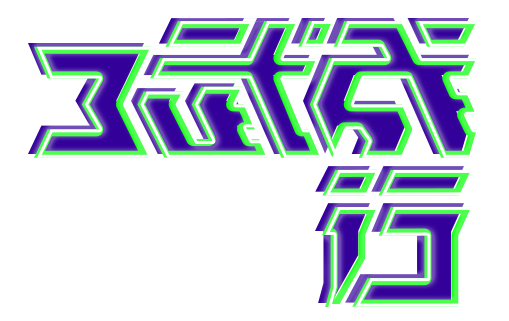
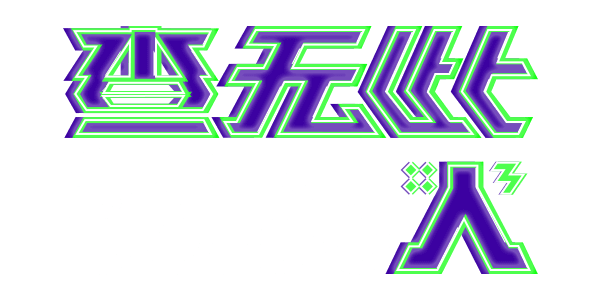
[U]版本更新

diff --git a/src/pages/index/index.jsx b/src/pages/index/index.jsx
@@ -3,9 +3,28 @@ import React, { Component } from 'react'
 import Taro from '@tarojs/taro'
 import { View, Image } from '@tarojs/components'
 import Author from '../../components/author'
+
 import './index.scss'
+
 import imgTitle from '../../assets/image/index/title.png'
 import imgTitleLight from '../../assets/image/index/title-light.png'
+import displayChi from '../../assets/image/display/display-chi.jpg'
+import displayMiao from '../../assets/image/display/display-miao-v2.jpg'
+import displayKai from '../../assets/image/display/display-kai.jpg'
+import imgTubu from '../../assets/image/display/tubu.jpg'
+import imgTubuOrigin from '../../assets/image/display/tubu-origin.jpg'
+import imgShangyuanankang from '../../assets/image/display/shangyuanankang.jpg'
+import imgShangyuanankangOrigin from '../../assets/image/display/shangyuanankang-origin.jpg'
+import imgJichedang from '../../assets/image/display/jichedang.jpg'
+import imgJichedangOrigin from '../../assets/image/display/jichedang-origin.jpg'
+import imgKaizhan from '../../assets/image/display/kaizhan.jpg'
+import imgKaizhanOrigin from '../../assets/image/display/kaizhan-origin.jpg'
+import imgXiaweiyi from '../../assets/image/display/xiaweiyi.jpg'
+import imgXiaweiyiOrigin from '../../assets/image/display/xiaweiyi-origin.jpg'
+import imgMaerdaifu from '../../assets/image/display/maerdaifu.jpg'
+import imgMaerdaifuOrigin from '../../assets/image/display/maerdaifu-origin.jpg'
+import imgChengshenvtuan from '../../assets/image/display/chengshenvtuan.jpg'
+import imgChengshenvtuanOrigin from '../../assets/image/display/chengshenvtuan-origin.jpg'
 
 export default class Index extends Component {
   constructor(props) {
@@ -22,6 +41,15 @@ export default class Index extends Component {
       { short: 'chi', name: '嘘！景观', desc: '私家庭院 · 公共景观' },
       { short: 'miao', name: '嘘！平面', desc: '商业插画 · 宣传物料' },
       { short: 'kai', name: '嘘！室内', desc: '商铺展位 · 家装设计' }
+    ]
+    this._displayMiao = [
+      { id: 1, url: imgTubuOrigin, name: 'tubu' },
+      { id: 2, url: imgShangyuanankangOrigin, name: 'shangyuanankang' },
+      { id: 3, url: imgJichedangOrigin, name: 'jichedang' },
+      { id: 4, url: imgKaizhanOrigin, name: 'kaizhan' },
+      { id: 5, url: imgXiaweiyiOrigin, name: 'xiaweiyi' },
+      { id: 6, url: imgMaerdaifuOrigin, name: 'maerdaifu' },
+      { id: 7, url: imgChengshenvtuanOrigin, name: 'chengshenvtuan' }
     ]
     this._deviceInfo = Taro.getSystemInfoSync()
     console.log(this._deviceInfo)
@@ -81,7 +109,6 @@ export default class Index extends Component {
   }
 
   changePage(newPage) {
-    console.log('newPage ', newPage)
     const { page } = this.state
     if (page === newPage) return
     if (newPage !== 1) clearTimeout(this._lightTimeout)
@@ -96,21 +123,64 @@ export default class Index extends Component {
   }
 
   showDisplay(item) {
-    console.log(item)
     this._item = item
     this.setState({ page: 4 })
   }
 
-  onDisplayTouchStart(e) {
-    const { page } = this.state
-    if (page !== 4) return false
-    console.log('start', e)
+  _imgWidth = 0
+  onDisplayOnLoad(e) {
+    e.persist();
+    this._imgWidth = Number.parseInt(e.target.clientWidth, 10)
+    console.log('_imgWidth', this._imgWidth)
   }
 
-  onDisplayTouchEnd(e) {
+  _clientX = 0
+  // _percent = 0
+  // onDisplayTouchEnd(e) {
+  //   e.persist();
+  //   const { page } = this.state
+  //   if (page !== 4) return false
+  //   this._clientX = -Number.parseInt(e.target.x, 10)
+  //   this._percent = Number.parseInt(100 * this._clientX / this._imgWidth)
+  //   console.log(this._clientX, this._percent + '%')
+  //   this.onWhichImgShow()
+  // }
+
+  _clientX = 0
+  _percent = 0
+  onDisplayTouchMove(e) {
+    e.persist();
     const { page } = this.state
     if (page !== 4) return false
-    console.log('end', e)
+    this._clientX = -Number.parseInt(e.target.x, 10)
+    this._percent = Number.parseInt(100 * this._clientX / this._imgWidth)
+    // console.log(this._clientX, this._percent + '%')
+    this.onWhichImgShow()
+  }
+
+  onWhichImgShow() {
+    if (this._clientX > 5800) {
+      this._displayMiao[0].url = imgTubu
+    }
+    if (this._clientX > 5950) {
+      this._displayMiao[1].url = imgShangyuanankang
+    }
+    if (this._clientX > 6200) {
+      this._displayMiao[2].url = imgJichedang
+    }
+    if (this._clientX > 6400) {
+      this._displayMiao[3].url = imgKaizhan
+    }
+    if (this._clientX > 6600) {
+      this._displayMiao[4].url = imgXiaweiyi
+    }
+    if (this._clientX > 6900) {
+      this._displayMiao[5].url = imgMaerdaifu
+    }
+    if (this._clientX > 7000) {
+      this._displayMiao[6].url = imgChengshenvtuan
+    }
+    this.setState({})
   }
 
   renderLandscape() {
@@ -124,7 +194,6 @@ export default class Index extends Component {
           </View>
           <View className='landscape-right'>
             <View className='landscape-right-35lib'></View>
-            <View className='landscape-right-logo'></View>
           </View>
         </View>
         <View className='landscape-tips' onClick={() => this.setState({ showTips: true })}></View>
@@ -165,7 +234,7 @@ export default class Index extends Component {
       <View className='portrait-wrapper is-center'>
         <View className='portrait-btn is-prev' onClick={this.changePage.bind(this, 1)}></View>
         <View className='portrait-desc-box'>
-          三个武人设计工作室主营景观、平面、室内等项目类型，凭借着在著名设计院、互联网大厂、知名地产商等企业的多年设计工作经验，
+          查无此人设计工作室主营景观、平面、室内等项目类型，凭借着在著名设计院、互联网大厂、知名地产商等企业的多年设计工作经验，
           集调研、分析、设计、管理于一体，把握瞬息万变的市场景象，对市场未来趋势及时作出合理的判断，为客户提供最满意的设计效果和最大的商业价值。
         </View>
         <View className='portrait-desc-img'>
@@ -205,23 +274,42 @@ export default class Index extends Component {
         </View>
         <View className='portrait-btn is-empty' onClick={this.changePage.bind(this, 4)}></View>
         <View className='portrait-logo'></View>
-        <Author />
       </View>
     )
   }
 
   renderDisplay() {
     const short = this._item.short || 'miao'
+    const imgUrl = {
+      'chi': displayChi,
+      'miao': displayMiao,
+      'kai': displayKai,
+      '': displayMiao
+    }[short]
     return (
       <View>
         <View className='display-control' onClick={this.changePage.bind(this, 3)}>
-          <View className='display-back' onClick={() => console.log('click me!')}></View>
+          <View className='display-back'></View>
         </View>
         <View className='display-wrapper'>
-          <View className={`display-img is-${short}`}
-            onTouchStart={e => this.onDisplayTouchEnd(e)}
-            onTouchEnd={e => this.onDisplayTouchEnd(e)}
-          ></View>
+          <View className='display-container'>
+            <img
+              src={imgUrl}
+              className='display-img'
+              alt='img'
+              onLoad={e => this.onDisplayOnLoad(e)}
+              onTouchMove={e => this.onDisplayTouchMove(e)}
+              // onTouchEnd={e => this.onDisplayTouchEnd(e)}
+            />
+            {
+              short === 'miao' &&
+              this._displayMiao.map(item => {
+                return (
+                  <img key={item.id} src={item.url} className={`display-item is-${item.name}`} alt={`${item.name}`} />
+                )
+              })
+            }
+          </View>
         </View>
       </View>
     )

diff --git a/src/pages/index/index.scss b/src/pages/index/index.scss
@@ -52,24 +52,20 @@
   }
 
   &-row {
+    position: relative;
+    top: 40px;
     display: flex;
+    justify-content: space-around;
     align-items: flex-start;
     width: 651px;
   }
 
   &-right {
-    @include flex();
-    flex-direction: column;
+    width: 396px;
 
     &-35lib {
-      @include backgroundImage(364px, 395px);
-      background-image: url("../../assets/image/landscape/ic-35lib.png");
-    }
-
-    &-logo {
-      @include backgroundImage(179px, 86px);
-      background-image: url("../../assets/image/members/ic-35lib.png");
-      transform: scale(1.8);
+      @include backgroundImage(396px, 483px);
+      background-image: url("../../assets/image/landscape/ic-35lab.png");
     }
   }
 
@@ -114,8 +110,9 @@
   }
 
   &-title {
-    width: 509px;
-    height: 321px;
+    width: 600px;
+    height: 300px;
+    transform: scale(1.3);
   }
 
   &-diamond {
@@ -324,24 +321,50 @@
     overflow-y: hidden;
   }
 
+  &-container {
+    position: relative;
+    width: max-content;
+    height: 100%;
+    overflow: auto;
+  }
+
   &-img {
     position: relative;
     z-index: 2;
     height: 100%;
-    background-size: 100% 100%;
-    background-repeat: no-repeat;
+  }
 
-    &.is-chi {
-      width: 18508px;
-      background-image: url("../../assets/image/display/display-chi.jpg");
+  &-item {
+    position: absolute;
+    z-index: 3;
+    top: 120px;
+    width: 325px;
+    height: 325px;
+
+    &.is-tubu {
+      right: 3450px;
     }
-    &.is-miao {
-      width: 15485px;
-      background-image: url("../../assets/image/display/display-miao.jpg");
+    &.is-shangyuanankang {
+      right: 2960px;
     }
-    &.is-kai {
-      width: 15908px;
-      background-image: url("../../assets/image/display/display-kai.jpg");
+    &.is-jichedang {
+      right: 2470px;
+    }
+    &.is-kaizhan {
+      right: 1980px;
+    }
+    &.is-xiaweiyi {
+      right: 1490px;
+    }
+    &.is-maerdaifu {
+      right: 765px;
+      width: 518px;
+      height: 368px;
+    }
+    &.is-chengshenvtuan {
+      right: 170px;
+      width: 399px;
+      height: 387px;
     }
   }
 }

diff --git a/src/components/author.scss b/src/components/author.scss
@@ -20,7 +20,7 @@
   }
 
   &-zh {
-    @include backgroundImage(178px, 34px);
+    @include backgroundImage(178px, 35px);
     background-image:url('../assets/image/common/author-zh.png');
   }
 }
